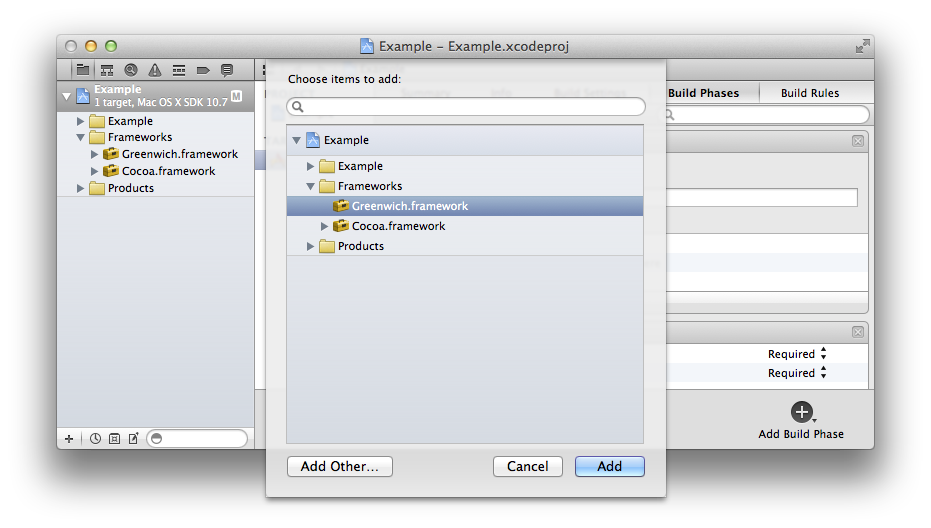
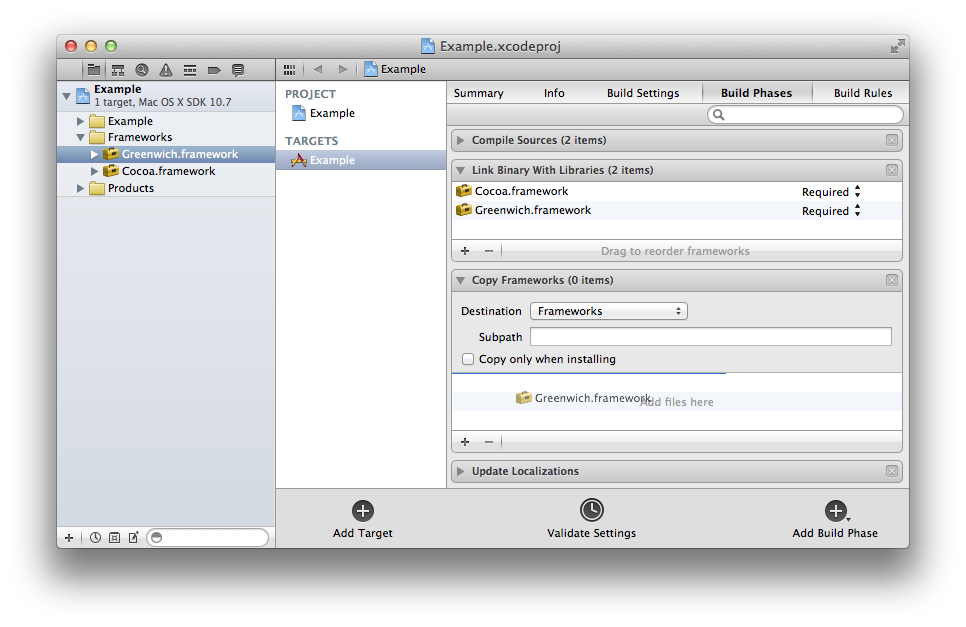
Updated documentation.
There seems to be a bug in Xcode currently with adding frameworks during copy files, so dragging works better.

diff --git a/Readme.md b/Readme.md
@@ -46,7 +46,8 @@ This is as simple as adding a few _Run Script_ build phases. In your Xcode proje
   1. Move this build phase **above** the _Copy Bundle Resources_ build phase
   1. Update the script to `./Scripts/localization create -s. -r.`
 
-[![Set Runpath Search Paths](https://github.com/fadingred/Greenwich/raw/master/Documentation/runpaths_thumbnail.png)](https://github.com/fadingred/Greenwich/raw/master/Documentation/runpaths.png) [![Add Run Script](https://github.com/fadingred/Greenwich/raw/master/Documentation/runscript_thumbnail.png)](https://github.com/fadingred/Greenwich/raw/master/Documentation/runscript.png) [![Define Run Script](https://github.com/fadingred/Greenwich/raw/master/Documentation/definescript_thumbnail.png)](https://github.com/fadingred/Greenwich/raw/master/Documentation/definescript.png)
+[![Set Runpath Search Paths](https://github.com/fadingred/Greenwich/raw/master/Documentation/runpaths_thumbnail.png)](https://github.com/fadingred/Greenwich/raw/master/Documentation/runpaths.png)
+[![Add Run Script](https://github.com/fadingred/Greenwich/raw/master/Documentation/runscript_thumbnail.png)](https://github.com/fadingred/Greenwich/raw/master/Documentation/runscript.png) [![Define Run Script](https://github.com/fadingred/Greenwich/raw/master/Documentation/definescript_thumbnail.png)](https://github.com/fadingred/Greenwich/raw/master/Documentation/definescript.png)
 
 This is sufficient for Greenwich to generate strings files for you, but you can add one more piece to the puzzle.
 This step is optional, but recommended. Simply add another _Run Script_ but do the following for this script:
@@ -82,10 +83,11 @@ are just a few steps to getting it added into your project:
   1. Click _Add Build Phase_
   1. Choose _Add Copy Files_
   1. Change the _Destination_ to _Frameworks_
-  1. Click the plus button and select `Greenwich.framework`
-  1. Click _Add_
+  1. Drag `Greenwich.framework` from the project navigator into the copy files list
 
-[![Drag Framework](https://github.com/fadingred/Greenwich/raw/master/Documentation/frameworkdrag_thumbnail.png)](https://github.com/fadingred/Greenwich/raw/master/Documentation/frameworkdrag.png) [![Copy Framework](https://github.com/fadingred/Greenwich/raw/master/Documentation/frameworkcopy_thumbnail.png)](https://github.com/fadingred/Greenwich/raw/master/Documentation/frameworkcopy.png) [![Framework added](https://github.com/fadingred/Greenwich/raw/master/Documentation/frameworkadded_thumbnail.png)](https://github.com/fadingred/Greenwich/raw/master/Documentation/frameworkadded.png)
+[![Drag Framework](https://github.com/fadingred/Greenwich/raw/master/Documentation/frameworkdrag_thumbnail.png)](https://github.com/fadingred/Greenwich/raw/master/Documentation/frameworkdrag.png)
+[![Add Framework](https://github.com/fadingred/Greenwich/raw/master/Documentation/frameworkadd_thumbnail.png)](https://github.com/fadingred/Greenwich/raw/master/Documentation/frameworkadd.png)
+[![Copy Framework](https://github.com/fadingred/Greenwich/raw/master/Documentation/frameworkcopy_thumbnail.png)](https://github.com/fadingred/Greenwich/raw/master/Documentation/frameworkcopy.png)
 
 ### Code
 
